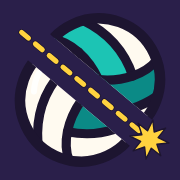
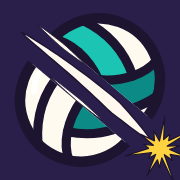
Logotipo: balón y tajo en clave anime (pedido de Ferran)
- El tajo es un trazo de pincel afilado y algo curvo con líneas de velocidad; el balón va estirado en la dirección del golpe,
  con ecos del borde trasero y estelas; el impacto es un fogonazo irregular, sin estrella simétrica. Lienzo del símbolo a 780×490.
- pages/: icono con el mismo tajo y fogonazo; PNG 180/192/512 regenerados.

diff --git a/index.html b/index.html
@@ -1904,7 +1904,7 @@ kbd.ms{height:auto;padding:2px 6px 1px}
       <div class="brand">
         <p class="kicker">Palau del Mar<span class="sep sep-d"><span class="sr">, </span></span>2 contra 2</p>
         <h1 class="logo" aria-label="Make the Cut">
-          <svg class="lg" viewBox="0 0 780 440" aria-hidden="true" focusable="false"><use href="#mtcLogo"/></svg>
+          <svg class="lg" viewBox="0 0 780 490" aria-hidden="true" focusable="false"><use href="#mtcLogo"/></svg>
         </h1>
         <p class="tagline">Vóley en pista cubierta, con la cámara detrás de tu jugador: <b>tú y tu pareja contra la CPU</b>.</p>
       </div>
@@ -2081,10 +2081,10 @@ kbd.ms{height:auto;padding:2px 6px 1px}
   <!-- Logotipo «Make the Cut» (nov-2026): el remate en diagonal (un cut) parte el rótulo en dos. Definido una vez aquí y usado
        con <use href="#mtcLogo"> en el menú y en el telón. Letras de Barlow Condensed Black Italic pasadas a trazados (OFL);
        balón con los colores del balón del partido. Fuente: carpetas/logo-make-the-cut/gen.py + symbol.py (fuera del repo). -->
-  <svg width="0" height="0" style="position:absolute" aria-hidden="true" focusable="false"><defs><g id="mtcT" stroke-linejoin="round" paint-order="stroke"><path d="M49.056000000000004 -78.4H65.968Q66.752 -78.4 67.144 -77.952Q67.536 -77.504 67.424 -76.72L58.24 -1.68Q58.128 -0.896 57.624 -0.448Q57.120000000000005 0.0 56.336 0.0H39.2Q38.416000000000004 0.0 38.024 -0.448Q37.632 -0.896 37.744 -1.68L43.456 -47.488Q43.456 -47.936 43.232 -47.992000000000004Q43.008 -48.048 42.784 -47.712L35.168 -36.736000000000004L33.824 -34.72H33.712L28.0 -47.712Q27.888 -48.048 27.664 -47.992000000000004Q27.44 -47.936 27.328 -47.488L21.728 -1.68Q21.616 -0.896 21.112000000000002 -0.448Q20.608 0.0 19.936 0.0H2.688Q2.016 0.0 1.624 -0.448Q1.232 -0.896 1.344 -1.68L10.528 -76.72Q10.64 -77.504 11.088000000000001 -77.952Q11.536 -78.4 12.32 -78.4H29.344Q30.688000000000002 -78.4 31.136 -77.168L37.072 -62.608000000000004Q37.296 -62.048 37.632 -62.608000000000004L46.928000000000004 -77.168Q47.712 -78.4 49.056000000000004 -78.4ZM94.08000000000001 -1.568 93.968 -10.08Q93.968 -10.64 93.296 -10.64H83.552Q82.88000000000001 -10.64 82.88000000000001 -10.08L80.75200000000001 -1.568Q80.304 0.0 78.736 0.0H61.712Q59.92000000000001 0.0 60.592000000000006 -1.792L85.232 -76.944Q85.68 -78.4 87.248 -78.4H106.96000000000001Q108.528 -78.4 108.64000000000001 -76.944L114.912 -1.792Q114.912 0.0 113.12 0.0H95.648Q94.08000000000001 0.0 94.08000000000001 -1.568ZM87.696 -26.768H93.072Q93.52000000000001 -26.768 93.52000000000001 -27.328L93.184 -48.048Q93.072 -48.496 92.792 -48.44Q92.512 -48.384 92.512 -48.048L87.36000000000001 -27.328Q87.36000000000001 -26.768 87.696 -26.768ZM128.24 -78.4H145.376Q146.16000000000003 -78.4 146.55200000000002 -77.952Q146.94400000000002 -77.504 146.83200000000002 -76.72L144.032 -54.208Q144.032 -53.76 144.25600000000003 -53.76Q144.48000000000002 -53.76 144.704 -54.096000000000004L156.8 -77.056Q157.472 -78.4 158.92800000000003 -78.4H176.848Q178.192 -78.4 178.192 -77.392Q178.192 -76.944 177.85600000000002 -76.384L158.48000000000002 -43.232Q158.36800000000002 -43.12 158.312 -42.952Q158.25600000000003 -42.784 158.25600000000003 -42.56L169.12 -1.9040000000000001Q169.23200000000003 -1.68 169.23200000000003 -1.344Q169.23200000000003 0.0 167.66400000000002 0.0H149.632Q148.17600000000002 0.0 147.84000000000003 -1.344L142.12800000000001 -24.416Q142.12800000000001 -24.752 141.904 -24.808Q141.68 -24.864 141.568 -24.416L140.22400000000002 -21.952L140.00000000000003 -21.28L137.64800000000002 -1.68Q137.536 -0.896 137.032 -0.448Q136.52800000000002 0.0 135.85600000000002 0.0H118.60800000000002Q117.93600000000002 0.0 117.54400000000001 -0.448Q117.15200000000002 -0.896 117.26400000000001 -1.68L126.44800000000002 -76.72Q126.56000000000002 -77.504 127.00800000000001 -77.952Q127.45600000000002 -78.4 128.24 -78.4ZM219.63200000000003 -60.368H198.8Q198.24 -60.368 198.24 -59.808L196.89600000000002 -48.832Q196.67200000000003 -48.272 197.34400000000002 -48.272H208.20800000000003Q208.99200000000002 -48.272 209.38400000000001 -47.824Q209.776 -47.376 209.66400000000002 -46.592L207.76000000000002 -31.92Q207.64800000000002 -31.136 207.20000000000002 -30.688000000000002Q206.752 -30.240000000000002 205.96800000000002 -30.240000000000002H195.104Q194.544 -30.240000000000002 194.544 -29.68L193.08800000000002 -18.592Q193.08800000000002 -18.032 193.64800000000002 -18.032H214.48000000000002Q215.264 -18.032 215.656 -17.584Q216.04800000000003 -17.136 215.93600000000004 -16.352L214.14400000000003 -1.68Q213.80800000000002 0.0 212.24 0.0H172.032Q171.36 0.0 170.96800000000002 -0.448Q170.57600000000002 -0.896 170.68800000000002 -1.68L179.872 -76.72Q179.98400000000004 -77.504 180.43200000000002 -77.952Q180.88000000000002 -78.4 181.66400000000002 -78.4H221.872Q222.656 -78.4 223.048 -77.952Q223.44000000000003 -77.504 223.32800000000003 -76.72L221.53600000000003 -62.048Q221.42400000000004 -61.264 220.92000000000002 -60.816Q220.41600000000003 -60.368 219.63200000000003 -60.368ZM295.56800000000004 -76.72 293.66400000000004 -62.048Q293.552 -61.264 293.10400000000004 -60.816Q292.65600000000006 -60.368 291.87200000000007 -60.368H278.992Q278.54400000000004 -60.368 278.32000000000005 -59.808L271.15200000000004 -1.68Q271.04 -0.896 270.59200000000004 -0.448Q270.14400000000006 0.0 269.36 0.0H252.22400000000005Q251.44000000000005 0.0 251.04800000000006 -0.448Q250.65600000000003 -0.896 250.76800000000003 -1.68L257.93600000000004 -59.808Q257.93600000000004 -60.368 257.48800000000006 -60.368H244.83200000000005Q244.04800000000003 -60.368 243.65600000000003 -60.816Q243.26400000000004 -61.264 243.37600000000003 -62.048L245.16800000000003 -76.72Q245.50400000000005 -78.4 247.07200000000003 -78.4H294.112Q294.8960000000001 -78.4 295.28800000000007 -77.952Q295.68000000000006 -77.504 295.56800000000004 -76.72ZM327.15200000000004 -78.4H344.288Q345.072 -78.4 345.464 -77.952Q345.856 -77.504 345.744 -76.72L336.56 -1.68Q336.22400000000005 0.0 334.656 0.0H317.52000000000004Q316.73600000000005 0.0 316.34400000000005 -0.448Q315.952 -0.896 316.064 -1.68L319.536 -29.68Q319.536 -30.240000000000002 319.088 -30.240000000000002H313.824Q313.264 -30.240000000000002 313.264 -29.68L309.79200000000003 -1.68Q309.68 -0.896 309.17600000000004 -0.448Q308.672 0.0 308.0 0.0H290.752Q290.08000000000004 0.0 289.68800000000005 -0.448Q289.29600000000005 -0.896 289.408 -1.68L298.59200000000004 -76.72Q298.704 -77.504 299.15200000000004 -77.952Q299.6 -78.4 300.384 -78.4H317.52000000000004Q318.30400000000003 -78.4 318.696 -77.952Q319.088 -77.504 318.976 -76.72L315.61600000000004 -48.832Q315.392 -48.272 316.064 -48.272H321.216Q321.66400000000004 -48.272 321.88800000000003 -48.832L325.24800000000005 -76.72Q325.584 -78.4 327.15200000000004 -78.4ZM390.88000000000005 -60.368H370.04800000000006Q369.48800000000006 -60.368 369.48800000000006 -59.808L368.14400000000006 -48.832Q367.92 -48.272 368.59200000000004 -48.272H379.456Q380.24000000000007 -48.272 380.63200000000006 -47.824Q381.02400000000006 -47.376 380.91200000000003 -46.592L379.00800000000004 -31.92Q378.8960000000001 -31.136 378.4480000000001 -30.688000000000002Q378.00000000000006 -30.240000000000002 377.21600000000007 -30.240000000000002H366.35200000000003Q365.79200000000003 -30.240000000000002 365.79200000000003 -29.68L364.336 -18.592Q364.336 -18.032 364.8960000000001 -18.032H385.72800000000007Q386.51200000000006 -18.032 386.90400000000005 -17.584Q387.29600000000005 -17.136 387.184 -16.352L385.39200000000005 -1.68Q385.05600000000004 0.0 383.48800000000006 0.0H343.28000000000003Q342.60800000000006 0.0 342.21600000000007 -0.448Q341.82400000000007 -0.896 341.93600000000004 -1.68L351.12000000000006 -76.72Q351.232 -77.504 351.68000000000006 -77.952Q352.12800000000004 -78.4 352.91200000000003 -78.4H393.12000000000006Q393.90400000000005 -78.4 394.29600000000005 -77.952Q394.68800000000005 -77.504 394.576 -76.72L392.78400000000005 -62.048Q392.672 -61.264 392.168 -60.816Q391.66400000000004 -60.368 390.88000000000005 -60.368Z" transform="translate(182.1 150)" stroke-width="5"/><path d="M5.428 -40.355999999999995Q5.428 -42.716 5.8999999999999995 -48.379999999999995L14.395999999999999 -117.29199999999999Q17.227999999999998 -140.184 32.568 -153.636Q47.907999999999994 -167.088 70.564 -167.088Q91.09599999999999 -167.088 103.13199999999999 -155.878Q115.16799999999999 -144.668 115.16799999999999 -125.08Q115.16799999999999 -122.95599999999999 114.696 -117.29199999999999L114.46 -116.112Q114.22399999999999 -114.46 113.16199999999999 -113.398Q112.1 -112.336 110.684 -112.336L74.33999999999999 -111.15599999999999Q70.8 -111.15599999999999 71.27199999999999 -114.46L71.97999999999999 -120.36Q72.452 -124.372 70.8 -126.732Q69.148 -129.09199999999998 66.08 -129.09199999999998Q62.775999999999996 -129.09199999999998 60.53399999999999 -126.732Q58.291999999999994 -124.372 57.82 -120.36L48.616 -44.604Q48.144 -40.827999999999996 49.678 -38.467999999999996Q51.211999999999996 -36.108 54.516 -36.108Q57.82 -36.108 60.062 -38.349999999999994Q62.303999999999995 -40.592 62.775999999999996 -44.604L63.483999999999995 -50.976Q63.72 -52.628 64.782 -53.45399999999999Q65.844 -54.279999999999994 67.25999999999999 -54.279999999999994L103.368 -53.099999999999994Q105.02 -53.099999999999994 105.846 -52.038Q106.672 -50.976 106.43599999999999 -49.324L106.19999999999999 -48.379999999999995Q103.368 -25.488 87.91 -11.8Q72.452 1.888 49.796 1.888Q29.264 1.888 17.346 -9.440000000000001Q5.428 -20.768 5.428 -40.355999999999995ZM108.324 -40.827999999999996Q108.324 -43.424 108.79599999999999 -49.087999999999994L122.72 -161.66Q122.956 -163.31199999999998 124.018 -164.25599999999997Q125.08 -165.2 126.496 -165.2H162.84Q164.256 -165.2 165.082 -164.25599999999997Q165.90800000000002 -163.31199999999998 165.672 -161.66L151.276 -44.839999999999996Q150.804 -40.827999999999996 152.33800000000002 -38.467999999999996Q153.872 -36.108 156.94 -36.108Q160.00799999999998 -36.108 162.01399999999998 -38.467999999999996Q164.01999999999998 -40.827999999999996 164.492 -44.839999999999996L178.88799999999998 -161.66Q179.124 -163.31199999999998 180.06799999999998 -164.25599999999997Q181.012 -165.2 182.664 -165.2H218.772Q220.42399999999998 -165.2 221.25 -164.25599999999997Q222.076 -163.31199999999998 221.83999999999997 -161.66L207.916 -49.087999999999994Q206.028 -33.983999999999995 198.476 -22.419999999999998Q190.92399999999998 -10.856 178.88799999999998 -4.484Q166.85199999999998 1.888 152.22 1.888Q131.924 1.888 120.124 -9.675999999999998Q108.324 -21.24 108.324 -40.827999999999996ZM331.108 -161.66 327.096 -130.744Q326.86 -129.09199999999998 325.916 -128.148Q324.972 -127.204 323.32 -127.204H296.18Q295.236 -127.204 294.764 -126.02399999999999L279.65999999999997 -3.54Q279.424 -1.888 278.48 -0.944Q277.536 0.0 275.884 0.0H239.776Q238.124 0.0 237.298 -0.944Q236.47199999999998 -1.888 236.708 -3.54L251.812 -126.02399999999999Q251.812 -127.204 250.868 -127.204H224.2Q222.548 -127.204 221.72199999999998 -128.148Q220.896 -129.09199999999998 221.132 -130.744L224.908 -161.66Q225.61599999999999 -165.2 228.92 -165.2H328.03999999999996Q329.692 -165.2 330.51800000000003 -164.25599999999997Q331.344 -163.31199999999998 331.108 -161.66Z" transform="translate(182.1 401.5) scale(1.2391)" stroke-width="4.04"/></g><clipPath id="mtc-cA"><polygon points="-1891.1,-2238.6 2645.0,2683.5 438.9,4716.6 -4097.2,-205.6"/></clipPath><clipPath id="mtc-cB"><polygon points="-1875.0,-2253.5 2661.1,2668.6 4867.2,635.6 331.1,-4286.6"/></clipPath></defs><g id="mtcLogo"><g clip-path="url(#mtc-cA)" transform="translate(-13.2 12.2)"><use href="#mtcT" transform="translate(12.0 12.0)" fill="#1d1530" stroke="#1d1530"/><use href="#mtcT" transform="translate(10.0 10.0)" fill="#1d1530" stroke="#1d1530"/><use href="#mtcT" transform="translate(8.0 8.0)" fill="#1d1530" stroke="#1d1530"/><use href="#mtcT" transform="translate(6.0 6.0)" fill="#1d1530" stroke="#1d1530"/><use href="#mtcT" transform="translate(4.0 4.0)" fill="#1d1530" stroke="#1d1530"/><use href="#mtcT" transform="translate(2.0 2.0)" fill="#1d1530" stroke="#1d1530"/><use href="#mtcT" transform="translate(12.0 12.0)" fill="#8a2310" stroke="none"/><use href="#mtcT" transform="translate(10.0 10.0)" fill="#a82b14" stroke="none"/><use href="#mtcT" transform="translate(8.0 8.0)" fill="#c43518" stroke="none"/><use href="#mtcT" transform="translate(6.0 6.0)" fill="#dd4320" stroke="none"/><use href="#mtcT" transform="translate(4.0 4.0)" fill="#f2552b" stroke="none"/><use href="#mtcT" transform="translate(2.0 2.0)" fill="#ff6a2e" stroke="none"/><use href="#mtcT" fill="#fff8ee" stroke="#1d1530"/></g><g clip-path="url(#mtc-cB)" transform="translate(13.2 -12.2)"><use href="#mtcT" transform="translate(12.0 12.0)" fill="#1d1530" stroke="#1d1530"/><use href="#mtcT" transform="translate(10.0 10.0)" fill="#1d1530" stroke="#1d1530"/><use href="#mtcT" transform="translate(8.0 8.0)" fill="#1d1530" stroke="#1d1530"/><use href="#mtcT" transform="translate(6.0 6.0)" fill="#1d1530" stroke="#1d1530"/><use href="#mtcT" transform="translate(4.0 4.0)" fill="#1d1530" stroke="#1d1530"/><use href="#mtcT" transform="translate(2.0 2.0)" fill="#1d1530" stroke="#1d1530"/><use href="#mtcT" transform="translate(12.0 12.0)" fill="#8a2310" stroke="none"/><use href="#mtcT" transform="translate(10.0 10.0)" fill="#a82b14" stroke="none"/><use href="#mtcT" transform="translate(8.0 8.0)" fill="#c43518" stroke="none"/><use href="#mtcT" transform="translate(6.0 6.0)" fill="#dd4320" stroke="none"/><use href="#mtcT" transform="translate(4.0 4.0)" fill="#f2552b" stroke="none"/><use href="#mtcT" transform="translate(2.0 2.0)" fill="#ff6a2e" stroke="none"/><use href="#mtcT" fill="#fff8ee" stroke="#1d1530"/></g><line x1="210" y1="25" x2="500" y2="340" stroke="#1d1530" stroke-width="9" stroke-linecap="round" stroke-dasharray="10 12"/><line x1="210" y1="25" x2="500" y2="340" class="trail" stroke="#ffd23f" stroke-width="5" stroke-linecap="round" stroke-dasharray="10 12"/><g stroke="#1d1530" stroke-width="4" stroke-linecap="round" opacity=".9"><path d="M180 -10 l22 24M155 18 l18 20"/></g><polygon points="610.6,406.9 573.0,409.8 583.8,446.0 555.1,421.4 537.1,454.6 534.2,417.0 498.0,427.8 522.6,399.1 489.4,381.1 527.0,378.2 516.2,342.0 544.9,366.6 562.9,333.4 565.8,371.0 602.0,360.2 577.4,388.9" fill="#ffd23f" stroke="#1d1530" stroke-width="4" stroke-linejoin="round"/><g transform="translate(550 394) rotate(-20) scale(3.8000) translate(-12 -12)" stroke-linejoin="round" stroke-linecap="round"> <circle cx="12" cy="12" r="10" fill="#fffaf0"/> <path d="M12 12C12 8 10.5 4.5 8 2.8A10 10 0 0 1 13.8 2.2C16.5 5.5 17.8 9.5 17.3 13.8C15.98 13.86 13.73 13 12 12Z" fill="#1cc4b4"/><path d="M12 12C12 8 10.5 4.5 8 2.8A10 10 0 0 1 13.8 2.2C16.5 5.5 17.8 9.5 17.3 13.8C15.98 13.86 13.73 13 12 12Z" fill="#0b8a86" transform="rotate(120 12 12)"/> <g fill="none" stroke="#1d1530" stroke-width="1.25"><path d="M12 12C12 8 10.5 4.5 8 2.8"/><path d="M13.8 2.2C16.5 5.5 17.8 9.5 17.3 13.8"/><g transform="rotate(120 12 12)"><path d="M12 12C12 8 10.5 4.5 8 2.8"/><path d="M13.8 2.2C16.5 5.5 17.8 9.5 17.3 13.8"/></g><g transform="rotate(240 12 12)"><path d="M12 12C12 8 10.5 4.5 8 2.8"/><path d="M13.8 2.2C16.5 5.5 17.8 9.5 17.3 13.8"/></g> <circle cx="12" cy="12" r="10" stroke-width="1.44"/></g> <path d="M5.6 7.4A7.6 7.6 0 0 1 7.6 5" fill="none" stroke="#fff" stroke-width="1" opacity=".85"/> </g></g></svg>
+  <svg width="0" height="0" style="position:absolute" aria-hidden="true" focusable="false"><defs><g id="mtcT" stroke-linejoin="round" paint-order="stroke"><path d="M49.056000000000004 -78.4H65.968Q66.752 -78.4 67.144 -77.952Q67.536 -77.504 67.424 -76.72L58.24 -1.68Q58.128 -0.896 57.624 -0.448Q57.120000000000005 0.0 56.336 0.0H39.2Q38.416000000000004 0.0 38.024 -0.448Q37.632 -0.896 37.744 -1.68L43.456 -47.488Q43.456 -47.936 43.232 -47.992000000000004Q43.008 -48.048 42.784 -47.712L35.168 -36.736000000000004L33.824 -34.72H33.712L28.0 -47.712Q27.888 -48.048 27.664 -47.992000000000004Q27.44 -47.936 27.328 -47.488L21.728 -1.68Q21.616 -0.896 21.112000000000002 -0.448Q20.608 0.0 19.936 0.0H2.688Q2.016 0.0 1.624 -0.448Q1.232 -0.896 1.344 -1.68L10.528 -76.72Q10.64 -77.504 11.088000000000001 -77.952Q11.536 -78.4 12.32 -78.4H29.344Q30.688000000000002 -78.4 31.136 -77.168L37.072 -62.608000000000004Q37.296 -62.048 37.632 -62.608000000000004L46.928000000000004 -77.168Q47.712 -78.4 49.056000000000004 -78.4ZM94.08000000000001 -1.568 93.968 -10.08Q93.968 -10.64 93.296 -10.64H83.552Q82.88000000000001 -10.64 82.88000000000001 -10.08L80.75200000000001 -1.568Q80.304 0.0 78.736 0.0H61.712Q59.92000000000001 0.0 60.592000000000006 -1.792L85.232 -76.944Q85.68 -78.4 87.248 -78.4H106.96000000000001Q108.528 -78.4 108.64000000000001 -76.944L114.912 -1.792Q114.912 0.0 113.12 0.0H95.648Q94.08000000000001 0.0 94.08000000000001 -1.568ZM87.696 -26.768H93.072Q93.52000000000001 -26.768 93.52000000000001 -27.328L93.184 -48.048Q93.072 -48.496 92.792 -48.44Q92.512 -48.384 92.512 -48.048L87.36000000000001 -27.328Q87.36000000000001 -26.768 87.696 -26.768ZM128.24 -78.4H145.376Q146.16000000000003 -78.4 146.55200000000002 -77.952Q146.94400000000002 -77.504 146.83200000000002 -76.72L144.032 -54.208Q144.032 -53.76 144.25600000000003 -53.76Q144.48000000000002 -53.76 144.704 -54.096000000000004L156.8 -77.056Q157.472 -78.4 158.92800000000003 -78.4H176.848Q178.192 -78.4 178.192 -77.392Q178.192 -76.944 177.85600000000002 -76.384L158.48000000000002 -43.232Q158.36800000000002 -43.12 158.312 -42.952Q158.25600000000003 -42.784 158.25600000000003 -42.56L169.12 -1.9040000000000001Q169.23200000000003 -1.68 169.23200000000003 -1.344Q169.23200000000003 0.0 167.66400000000002 0.0H149.632Q148.17600000000002 0.0 147.84000000000003 -1.344L142.12800000000001 -24.416Q142.12800000000001 -24.752 141.904 -24.808Q141.68 -24.864 141.568 -24.416L140.22400000000002 -21.952L140.00000000000003 -21.28L137.64800000000002 -1.68Q137.536 -0.896 137.032 -0.448Q136.52800000000002 0.0 135.85600000000002 0.0H118.60800000000002Q117.93600000000002 0.0 117.54400000000001 -0.448Q117.15200000000002 -0.896 117.26400000000001 -1.68L126.44800000000002 -76.72Q126.56000000000002 -77.504 127.00800000000001 -77.952Q127.45600000000002 -78.4 128.24 -78.4ZM219.63200000000003 -60.368H198.8Q198.24 -60.368 198.24 -59.808L196.89600000000002 -48.832Q196.67200000000003 -48.272 197.34400000000002 -48.272H208.20800000000003Q208.99200000000002 -48.272 209.38400000000001 -47.824Q209.776 -47.376 209.66400000000002 -46.592L207.76000000000002 -31.92Q207.64800000000002 -31.136 207.20000000000002 -30.688000000000002Q206.752 -30.240000000000002 205.96800000000002 -30.240000000000002H195.104Q194.544 -30.240000000000002 194.544 -29.68L193.08800000000002 -18.592Q193.08800000000002 -18.032 193.64800000000002 -18.032H214.48000000000002Q215.264 -18.032 215.656 -17.584Q216.04800000000003 -17.136 215.93600000000004 -16.352L214.14400000000003 -1.68Q213.80800000000002 0.0 212.24 0.0H172.032Q171.36 0.0 170.96800000000002 -0.448Q170.57600000000002 -0.896 170.68800000000002 -1.68L179.872 -76.72Q179.98400000000004 -77.504 180.43200000000002 -77.952Q180.88000000000002 -78.4 181.66400000000002 -78.4H221.872Q222.656 -78.4 223.048 -77.952Q223.44000000000003 -77.504 223.32800000000003 -76.72L221.53600000000003 -62.048Q221.42400000000004 -61.264 220.92000000000002 -60.816Q220.41600000000003 -60.368 219.63200000000003 -60.368ZM295.56800000000004 -76.72 293.66400000000004 -62.048Q293.552 -61.264 293.10400000000004 -60.816Q292.65600000000006 -60.368 291.87200000000007 -60.368H278.992Q278.54400000000004 -60.368 278.32000000000005 -59.808L271.15200000000004 -1.68Q271.04 -0.896 270.59200000000004 -0.448Q270.14400000000006 0.0 269.36 0.0H252.22400000000005Q251.44000000000005 0.0 251.04800000000006 -0.448Q250.65600000000003 -0.896 250.76800000000003 -1.68L257.93600000000004 -59.808Q257.93600000000004 -60.368 257.48800000000006 -60.368H244.83200000000005Q244.04800000000003 -60.368 243.65600000000003 -60.816Q243.26400000000004 -61.264 243.37600000000003 -62.048L245.16800000000003 -76.72Q245.50400000000005 -78.4 247.07200000000003 -78.4H294.112Q294.8960000000001 -78.4 295.28800000000007 -77.952Q295.68000000000006 -77.504 295.56800000000004 -76.72ZM327.15200000000004 -78.4H344.288Q345.072 -78.4 345.464 -77.952Q345.856 -77.504 345.744 -76.72L336.56 -1.68Q336.22400000000005 0.0 334.656 0.0H317.52000000000004Q316.73600000000005 0.0 316.34400000000005 -0.448Q315.952 -0.896 316.064 -1.68L319.536 -29.68Q319.536 -30.240000000000002 319.088 -30.240000000000002H313.824Q313.264 -30.240000000000002 313.264 -29.68L309.79200000000003 -1.68Q309.68 -0.896 309.17600000000004 -0.448Q308.672 0.0 308.0 0.0H290.752Q290.08000000000004 0.0 289.68800000000005 -0.448Q289.29600000000005 -0.896 289.408 -1.68L298.59200000000004 -76.72Q298.704 -77.504 299.15200000000004 -77.952Q299.6 -78.4 300.384 -78.4H317.52000000000004Q318.30400000000003 -78.4 318.696 -77.952Q319.088 -77.504 318.976 -76.72L315.61600000000004 -48.832Q315.392 -48.272 316.064 -48.272H321.216Q321.66400000000004 -48.272 321.88800000000003 -48.832L325.24800000000005 -76.72Q325.584 -78.4 327.15200000000004 -78.4ZM390.88000000000005 -60.368H370.04800000000006Q369.48800000000006 -60.368 369.48800000000006 -59.808L368.14400000000006 -48.832Q367.92 -48.272 368.59200000000004 -48.272H379.456Q380.24000000000007 -48.272 380.63200000000006 -47.824Q381.02400000000006 -47.376 380.91200000000003 -46.592L379.00800000000004 -31.92Q378.8960000000001 -31.136 378.4480000000001 -30.688000000000002Q378.00000000000006 -30.240000000000002 377.21600000000007 -30.240000000000002H366.35200000000003Q365.79200000000003 -30.240000000000002 365.79200000000003 -29.68L364.336 -18.592Q364.336 -18.032 364.8960000000001 -18.032H385.72800000000007Q386.51200000000006 -18.032 386.90400000000005 -17.584Q387.29600000000005 -17.136 387.184 -16.352L385.39200000000005 -1.68Q385.05600000000004 0.0 383.48800000000006 0.0H343.28000000000003Q342.60800000000006 0.0 342.21600000000007 -0.448Q341.82400000000007 -0.896 341.93600000000004 -1.68L351.12000000000006 -76.72Q351.232 -77.504 351.68000000000006 -77.952Q352.12800000000004 -78.4 352.91200000000003 -78.4H393.12000000000006Q393.90400000000005 -78.4 394.29600000000005 -77.952Q394.68800000000005 -77.504 394.576 -76.72L392.78400000000005 -62.048Q392.672 -61.264 392.168 -60.816Q391.66400000000004 -60.368 390.88000000000005 -60.368Z" transform="translate(182.1 150)" stroke-width="5"/><path d="M5.428 -40.355999999999995Q5.428 -42.716 5.8999999999999995 -48.379999999999995L14.395999999999999 -117.29199999999999Q17.227999999999998 -140.184 32.568 -153.636Q47.907999999999994 -167.088 70.564 -167.088Q91.09599999999999 -167.088 103.13199999999999 -155.878Q115.16799999999999 -144.668 115.16799999999999 -125.08Q115.16799999999999 -122.95599999999999 114.696 -117.29199999999999L114.46 -116.112Q114.22399999999999 -114.46 113.16199999999999 -113.398Q112.1 -112.336 110.684 -112.336L74.33999999999999 -111.15599999999999Q70.8 -111.15599999999999 71.27199999999999 -114.46L71.97999999999999 -120.36Q72.452 -124.372 70.8 -126.732Q69.148 -129.09199999999998 66.08 -129.09199999999998Q62.775999999999996 -129.09199999999998 60.53399999999999 -126.732Q58.291999999999994 -124.372 57.82 -120.36L48.616 -44.604Q48.144 -40.827999999999996 49.678 -38.467999999999996Q51.211999999999996 -36.108 54.516 -36.108Q57.82 -36.108 60.062 -38.349999999999994Q62.303999999999995 -40.592 62.775999999999996 -44.604L63.483999999999995 -50.976Q63.72 -52.628 64.782 -53.45399999999999Q65.844 -54.279999999999994 67.25999999999999 -54.279999999999994L103.368 -53.099999999999994Q105.02 -53.099999999999994 105.846 -52.038Q106.672 -50.976 106.43599999999999 -49.324L106.19999999999999 -48.379999999999995Q103.368 -25.488 87.91 -11.8Q72.452 1.888 49.796 1.888Q29.264 1.888 17.346 -9.440000000000001Q5.428 -20.768 5.428 -40.355999999999995ZM108.324 -40.827999999999996Q108.324 -43.424 108.79599999999999 -49.087999999999994L122.72 -161.66Q122.956 -163.31199999999998 124.018 -164.25599999999997Q125.08 -165.2 126.496 -165.2H162.84Q164.256 -165.2 165.082 -164.25599999999997Q165.90800000000002 -163.31199999999998 165.672 -161.66L151.276 -44.839999999999996Q150.804 -40.827999999999996 152.33800000000002 -38.467999999999996Q153.872 -36.108 156.94 -36.108Q160.00799999999998 -36.108 162.01399999999998 -38.467999999999996Q164.01999999999998 -40.827999999999996 164.492 -44.839999999999996L178.88799999999998 -161.66Q179.124 -163.31199999999998 180.06799999999998 -164.25599999999997Q181.012 -165.2 182.664 -165.2H218.772Q220.42399999999998 -165.2 221.25 -164.25599999999997Q222.076 -163.31199999999998 221.83999999999997 -161.66L207.916 -49.087999999999994Q206.028 -33.983999999999995 198.476 -22.419999999999998Q190.92399999999998 -10.856 178.88799999999998 -4.484Q166.85199999999998 1.888 152.22 1.888Q131.924 1.888 120.124 -9.675999999999998Q108.324 -21.24 108.324 -40.827999999999996ZM331.108 -161.66 327.096 -130.744Q326.86 -129.09199999999998 325.916 -128.148Q324.972 -127.204 323.32 -127.204H296.18Q295.236 -127.204 294.764 -126.02399999999999L279.65999999999997 -3.54Q279.424 -1.888 278.48 -0.944Q277.536 0.0 275.884 0.0H239.776Q238.124 0.0 237.298 -0.944Q236.47199999999998 -1.888 236.708 -3.54L251.812 -126.02399999999999Q251.812 -127.204 250.868 -127.204H224.2Q222.548 -127.204 221.72199999999998 -128.148Q220.896 -129.09199999999998 221.132 -130.744L224.908 -161.66Q225.61599999999999 -165.2 228.92 -165.2H328.03999999999996Q329.692 -165.2 330.51800000000003 -164.25599999999997Q331.344 -163.31199999999998 331.108 -161.66Z" transform="translate(182.1 401.5) scale(1.2391)" stroke-width="4.04"/></g><clipPath id="mtc-cA"><polygon points="-1891.1,-2238.6 2645.0,2683.5 438.9,4716.6 -4097.2,-205.6"/></clipPath><clipPath id="mtc-cB"><polygon points="-1875.0,-2253.5 2661.1,2668.6 4867.2,635.6 331.1,-4286.6"/></clipPath></defs><g id="mtcLogo"><g clip-path="url(#mtc-cA)" transform="translate(-13.2 12.2)"><use href="#mtcT" transform="translate(12.0 12.0)" fill="#1d1530" stroke="#1d1530"/><use href="#mtcT" transform="translate(10.0 10.0)" fill="#1d1530" stroke="#1d1530"/><use href="#mtcT" transform="translate(8.0 8.0)" fill="#1d1530" stroke="#1d1530"/><use href="#mtcT" transform="translate(6.0 6.0)" fill="#1d1530" stroke="#1d1530"/><use href="#mtcT" transform="translate(4.0 4.0)" fill="#1d1530" stroke="#1d1530"/><use href="#mtcT" transform="translate(2.0 2.0)" fill="#1d1530" stroke="#1d1530"/><use href="#mtcT" transform="translate(12.0 12.0)" fill="#8a2310" stroke="none"/><use href="#mtcT" transform="translate(10.0 10.0)" fill="#a82b14" stroke="none"/><use href="#mtcT" transform="translate(8.0 8.0)" fill="#c43518" stroke="none"/><use href="#mtcT" transform="translate(6.0 6.0)" fill="#dd4320" stroke="none"/><use href="#mtcT" transform="translate(4.0 4.0)" fill="#f2552b" stroke="none"/><use href="#mtcT" transform="translate(2.0 2.0)" fill="#ff6a2e" stroke="none"/><use href="#mtcT" fill="#fff8ee" stroke="#1d1530"/></g><g clip-path="url(#mtc-cB)" transform="translate(13.2 -12.2)"><use href="#mtcT" transform="translate(12.0 12.0)" fill="#1d1530" stroke="#1d1530"/><use href="#mtcT" transform="translate(10.0 10.0)" fill="#1d1530" stroke="#1d1530"/><use href="#mtcT" transform="translate(8.0 8.0)" fill="#1d1530" stroke="#1d1530"/><use href="#mtcT" transform="translate(6.0 6.0)" fill="#1d1530" stroke="#1d1530"/><use href="#mtcT" transform="translate(4.0 4.0)" fill="#1d1530" stroke="#1d1530"/><use href="#mtcT" transform="translate(2.0 2.0)" fill="#1d1530" stroke="#1d1530"/><use href="#mtcT" transform="translate(12.0 12.0)" fill="#8a2310" stroke="none"/><use href="#mtcT" transform="translate(10.0 10.0)" fill="#a82b14" stroke="none"/><use href="#mtcT" transform="translate(8.0 8.0)" fill="#c43518" stroke="none"/><use href="#mtcT" transform="translate(6.0 6.0)" fill="#dd4320" stroke="none"/><use href="#mtcT" transform="translate(4.0 4.0)" fill="#f2552b" stroke="none"/><use href="#mtcT" transform="translate(2.0 2.0)" fill="#ff6a2e" stroke="none"/><use href="#mtcT" fill="#fff8ee" stroke="#1d1530"/></g><path d="M259.4 27.4 L270.0 40.1 L280.8 52.5 L291.6 64.9 L302.5 77.2 L313.4 89.6 L324.6 101.7 L336.0 113.5 L347.5 125.4 L359.0 137.1 L370.9 148.6 L370.9 148.6 L360.4 135.9 L349.7 123.4 L338.8 111.0 L328.0 98.6 L316.8 86.4 L305.5 74.5 L294.1 62.6 L282.6 50.8 L271.2 39.0 L259.4 27.4 Z" fill="#fff8ee" stroke="#1d1530" stroke-width="2.2" stroke-linejoin="round"/><path d="M247.0 117.8 L260.3 133.2 L273.7 148.4 L287.3 163.6 L300.8 178.8 L314.4 194.0 L328.2 208.9 L342.2 223.7 L356.2 238.4 L370.3 253.1 L384.7 267.5 L384.7 267.5 L371.5 252.0 L358.1 236.7 L344.6 221.5 L331.0 206.3 L317.3 191.3 L303.3 176.5 L289.3 161.7 L275.3 147.0 L261.3 132.3 L247.0 117.8 Z" fill="#fff8ee" stroke="#1d1530" stroke-width="2.2" stroke-linejoin="round"/><path d="M423.3 186.0 L433.0 197.5 L442.9 208.8 L452.8 220.0 L462.8 231.3 L472.8 242.5 L483.0 253.5 L493.4 264.4 L503.8 275.2 L514.2 286.0 L524.9 296.5 L524.9 296.5 L515.3 285.0 L505.4 273.7 L495.5 262.4 L485.6 251.1 L475.4 240.1 L465.1 229.2 L454.7 218.3 L444.3 207.4 L433.9 196.6 L423.3 186.0 Z" fill="#fff8ee" stroke="#1d1530" stroke-width="2.2" stroke-linejoin="round"/><path d="M559.7 372.1 L569.7 397.4 L589.4 341.9 L579.9 395.3 L595.7 385.1 L591.4 399.2 L654.0 379.7 L586.5 411.5 L617.2 414.5 L591.1 419.8 L630.6 444.1 L590.6 431.8 L594.2 446.2 L577.1 430.7 L594.4 511.5 L570.3 437.3 L562.1 458.3 L559.4 440.2 L529.7 474.9 L556.8 427.3 L539.0 434.3 L548.1 422.1 L485.8 421.7 L542.4 411.0 L532.1 400.4 L554.5 405.6 L528.7 376.6 L558.3 395.6 Z" fill="#ffd23f" stroke="#1d1530" stroke-width="3.5" stroke-linejoin="round"/><path d="M683.4 433.9 L685.9 436.4 L688.4 438.0 L691.2 438.6 L694.0 438.6 L696.8 438.5 L699.7 438.4 L702.5 438.2 L705.5 437.5 L705.5 437.5 L702.9 435.9 L700.3 434.8 L697.6 433.8 L694.9 432.9 L692.3 432.0 L689.5 431.7 L686.5 432.3 L683.4 433.9 Z" fill="#ffd23f" stroke="#1d1530" stroke-width="2.4499999999999997" stroke-linejoin="round"/><path d="M622.4 531.1 L621.8 535.1 L622.0 538.7 L623.3 541.9 L625.2 544.7 L627.1 547.6 L629.0 550.4 L631.1 553.2 L633.7 555.7 L633.7 555.7 L633.5 552.1 L632.8 548.7 L631.9 545.4 L631.0 542.1 L630.0 538.8 L628.5 535.8 L625.9 533.2 L622.4 531.1 Z" fill="#ffd23f" stroke="#1d1530" stroke-width="2.4499999999999997" stroke-linejoin="round"/><path d="M532.2 520.4 L529.7 521.8 L528.0 523.6 L527.2 525.6 L526.8 527.8 L526.5 530.0 L526.3 532.2 L526.1 534.5 L526.3 536.9 L526.3 536.9 L528.0 535.2 L529.3 533.3 L530.5 531.4 L531.7 529.5 L532.8 527.5 L533.4 525.4 L533.1 523.0 L532.2 520.4 Z" fill="#ffd23f" stroke="#1d1530" stroke-width="2.4499999999999997" stroke-linejoin="round"/><path d="M689.5 513.8 L690.1 516.3 L691.0 518.2 L692.5 519.6 L694.3 520.6 L696.0 521.5 L697.9 522.5 L699.7 523.3 L701.9 523.9 L701.9 523.9 L700.9 521.9 L699.7 520.3 L698.4 518.7 L697.1 517.1 L695.8 515.6 L694.2 514.4 L692.1 513.8 L689.5 513.8 Z" fill="#ffd23f" stroke="#1d1530" stroke-width="2.4499999999999997" stroke-linejoin="round"/><path d="M576.7 578.4 L575.0 581.1 L574.1 583.7 L574.1 586.3 L574.6 588.9 L575.2 591.5 L575.8 594.0 L576.5 596.6 L577.6 599.1 L577.6 599.1 L578.6 596.5 L579.0 593.9 L579.4 591.3 L579.7 588.7 L580.0 586.0 L579.8 583.5 L578.6 580.9 L576.7 578.4 Z" fill="#ffd23f" stroke="#1d1530" stroke-width="2.4499999999999997" stroke-linejoin="round"/><path d="M208.0 22.0 L219.6 34.8 L231.6 47.3 L243.6 59.8 L255.7 72.2 L267.7 84.6 L279.7 97.1 L291.7 109.6 L303.6 122.1 L315.5 134.7 L327.3 147.3 L339.1 160.0 L350.8 172.8 L362.4 185.6 L373.9 198.5 L385.4 211.4 L396.7 224.5 L408.1 237.6 L419.3 250.8 L430.4 264.0 L441.5 277.3 L453.1 290.2 L464.8 302.9 L476.4 315.7 L488.1 328.5 L499.8 341.3 L511.5 354.0 L523.3 366.6 L535.9 378.6 L535.9 378.6 L526.4 363.8 L516.3 349.6 L506.1 335.5 L495.7 321.5 L485.2 307.7 L474.7 293.9 L464.0 280.1 L453.2 266.6 L441.7 253.6 L430.2 240.7 L418.6 227.9 L406.9 215.2 L395.1 202.5 L383.2 190.0 L371.2 177.5 L359.2 165.0 L347.0 152.7 L334.8 140.5 L322.5 128.3 L310.1 116.2 L297.6 104.1 L285.1 92.2 L272.4 80.3 L259.8 68.4 L247.0 56.6 L234.2 44.9 L221.3 33.3 L208.0 22.0 Z" fill="#fff8ee" stroke="#1d1530" stroke-width="3" stroke-linejoin="round"/><path d="M479.4 368.8A36.1 36.1 0 0 1 530.8 321.6" fill="none" stroke="#1d1530" stroke-opacity="0.7" stroke-width="3.2" stroke-linecap="round"/><path d="M447.3 333.8A36.1 36.1 0 0 1 498.6 286.6" fill="none" stroke="#1d1530" stroke-opacity="0.4" stroke-width="2.6" stroke-linecap="round"/><path d="M507.4 288.7 L513.4 296.5 L519.7 304.1 L526.1 311.7 L532.6 319.2 L539.0 326.7 L545.5 334.2 L551.9 341.6 L559.1 348.4 L566.4 355.1 L574.2 361.4 L574.2 361.4 L568.6 353.1 L562.6 345.3 L556.4 337.5 L549.5 330.4 L542.6 323.4 L535.7 316.3 L528.7 309.3 L521.7 302.3 L514.7 295.4 L507.4 288.7 Z" fill="#fff8ee" stroke="#1d1530" stroke-width="2.2" stroke-linejoin="round"/><path d="M456.2 353.8 L461.1 360.1 L466.2 366.3 L471.3 372.4 L476.5 378.5 L481.6 384.6 L486.9 390.6 L492.1 396.7 L497.9 402.1 L503.9 407.5 L510.2 412.5 L510.2 412.5 L505.8 405.7 L500.9 399.4 L496.0 393.1 L490.4 387.4 L484.8 381.7 L479.2 376.0 L473.5 370.3 L467.9 364.7 L462.2 359.1 L456.2 353.8 Z" fill="#fff8ee" stroke="#1d1530" stroke-width="2.2" stroke-linejoin="round"/><path d="M503.7 312.7 L506.6 316.7 L509.7 320.6 L512.9 324.4 L516.1 328.2 L519.3 331.9 L522.5 335.7 L525.7 339.5 L529.3 342.8 L533.1 346.1 L537.1 349.1 L537.1 349.1 L534.4 344.8 L531.5 340.8 L528.5 336.9 L525.0 333.4 L521.5 329.9 L518.0 326.4 L514.5 322.9 L511.0 319.4 L507.4 316.0 L503.7 312.7 Z" fill="#fff8ee" stroke="#1d1530" stroke-width="2.2" stroke-linejoin="round"/><path d="M468.7 344.9 L471.2 348.3 L473.8 351.5 L476.5 354.8 L479.1 358.0 L481.8 361.2 L484.5 364.4 L487.2 367.6 L490.4 370.4 L493.5 373.1 L497.0 375.6 L497.0 375.6 L494.8 372.0 L492.3 368.6 L489.8 365.2 L486.8 362.3 L483.9 359.3 L480.9 356.4 L477.9 353.4 L474.9 350.5 L471.9 347.6 L468.7 344.9 Z" fill="#fff8ee" stroke="#1d1530" stroke-width="2.2" stroke-linejoin="round"/><g transform="translate(550 394) rotate(47.4) scale(1.1 .94) rotate(-47.4) translate(-550 -394)"><g transform="translate(550 394) rotate(-20) scale(3.8000) translate(-12 -12)" stroke-linejoin="round" stroke-linecap="round"> <circle cx="12" cy="12" r="10" fill="#fffaf0"/> <path d="M12 12C12 8 10.5 4.5 8 2.8A10 10 0 0 1 13.8 2.2C16.5 5.5 17.8 9.5 17.3 13.8C15.98 13.86 13.73 13 12 12Z" fill="#1cc4b4"/><path d="M12 12C12 8 10.5 4.5 8 2.8A10 10 0 0 1 13.8 2.2C16.5 5.5 17.8 9.5 17.3 13.8C15.98 13.86 13.73 13 12 12Z" fill="#0b8a86" transform="rotate(120 12 12)"/> <g fill="none" stroke="#1d1530" stroke-width="1.25"><path d="M12 12C12 8 10.5 4.5 8 2.8"/><path d="M13.8 2.2C16.5 5.5 17.8 9.5 17.3 13.8"/><g transform="rotate(120 12 12)"><path d="M12 12C12 8 10.5 4.5 8 2.8"/><path d="M13.8 2.2C16.5 5.5 17.8 9.5 17.3 13.8"/></g><g transform="rotate(240 12 12)"><path d="M12 12C12 8 10.5 4.5 8 2.8"/><path d="M13.8 2.2C16.5 5.5 17.8 9.5 17.3 13.8"/></g> <circle cx="12" cy="12" r="10" stroke-width="1.44"/></g> <path d="M5.6 7.4A7.6 7.6 0 0 1 7.6 5" fill="none" stroke="#fff" stroke-width="1" opacity=".85"/> </g></g></g></svg>
   <div id="boot"><div class="bt-bg"></div><div class="bt-c">
     <div class="logo bt-logo" aria-hidden="true">
-          <svg class="lg" viewBox="0 0 780 440" aria-hidden="true" focusable="false"><use href="#mtcLogo"/></svg>
+          <svg class="lg" viewBox="0 0 780 490" aria-hidden="true" focusable="false"><use href="#mtcLogo"/></svg>
     </div>
     <div class="bt-bar"><i></i></div><p>PALAU DEL MAR</p></div></div>
   <div id="wipe" aria-hidden="true"><div class="wp-band"><i class="wp-tr"></i><i class="wp-ld"></i><div class="wp-mark"><svg viewBox="0 0 24 24" fill="none" stroke="currentColor" stroke-width="2.2" stroke-linecap="round" stroke-linejoin="round"><circle cx="12" cy="12" r="10"/><g><path d="M12 12C12 8 10.5 4.5 8 2.8"/><path d="M13.8 2.2C16.5 5.5 17.8 9.5 17.3 13.8"/></g><g transform="rotate(120 12 12)"><path d="M12 12C12 8 10.5 4.5 8 2.8"/><path d="M13.8 2.2C16.5 5.5 17.8 9.5 17.3 13.8"/></g><g transform="rotate(240 12 12)"><path d="M12 12C12 8 10.5 4.5 8 2.8"/><path d="M13.8 2.2C16.5 5.5 17.8 9.5 17.3 13.8"/></g></svg><span>Palau del Mar</span></div></div></div>
